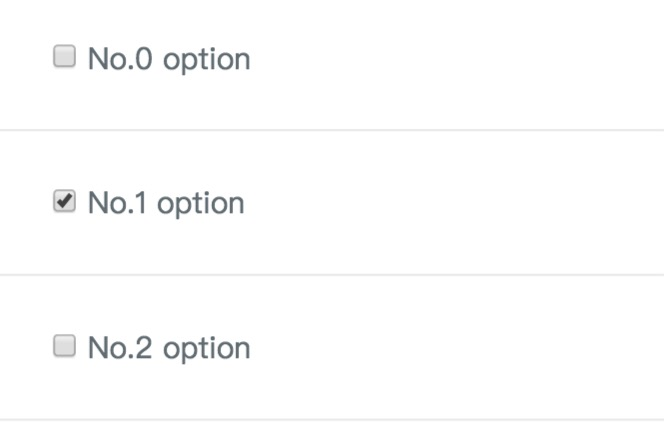
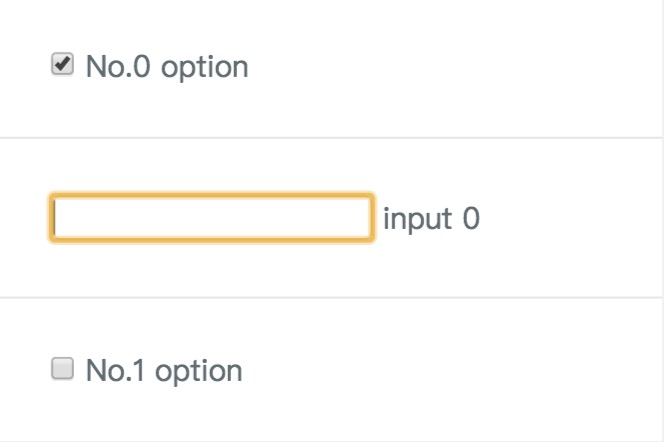
add input

Changed region(s): [[0.0602, 0.4118, 0.7229, 0.5588], [0.0602, 0.7353, 0.3916, 0.8824], [0.0602, 0.0882, 0.3916, 0.1765]]

diff --git a/example/pages/form-list/index.vue b/example/pages/form-list/index.vue
@@ -1,12 +1,18 @@
 <template>
   <page class="form-list-view" :title="$t('examples.formList')" :desc="$t('formListPage.desc')">
     <div slot="content">
-      <scroll ref="scroll" :click="options.click" :tap="options.tap">
+      <scroll ref="scroll" :click="options.click" :tap="options.tap" :listenBeforeScroll="options.listenBeforeScroll" @beforeScrollStart="beforeScrollStart">
         <ul class="content" ref="formList">
-          <li v-for="(item, index) in items" @click="click">
-            <input type="checkbox" :value="index" v-model="checkedItems">
-            <label>{{ $t('formListPage.previousTxt') + index + $t('formListPage.followingTxt') }}</label>
-          </li>
+          <template v-for="(item, index) in items">
+            <li>
+              <input type="checkbox" :value="index" v-model="checkedItems">
+              <label>{{ $t('formListPage.previousTxt') + index + $t('formListPage.followingTxt') }}</label>
+            </li>
+            <li>
+              <input class="text-input" type="text" @focus="focusHandle(index)" @blur="blurHandle(index)">
+              <span>input {{ index }}</span>
+            </li>
+          </template>
         </ul>
       </scroll>
     </div>
@@ -22,9 +28,10 @@
       return {
         options: {
           click: false,
-          tap: true
+          tap: true,
+          listenBeforeScroll: true // 用于input blur
         },
-        items: Array(20),
+        items: Array(10),
         checkedItems: []
       }
     },
@@ -34,7 +41,6 @@
     },
     mounted() {
       let labelList = this.$refs.formList.querySelectorAll('label')
-      console.log(labelList)
       labelList.forEach((item, index) => {
         item.addEventListener('tap', () => {
           console.log('tap item', index)
@@ -44,8 +50,18 @@
       })
     },
     methods: {
-      click() {
-        console.log('click item')
+      // 用于input blur
+      beforeScrollStart() {
+        let inputList = this.$refs.formList.querySelectorAll('.text-input')
+        inputList.forEach((item) => {
+          item.blur()
+        })
+      },
+      focusHandle(index) {
+        console.log(`input ${index}: focus`)
+      },
+      blurHandle(index) {
+        console.log(`input ${index}: blur`)
       }
     }
   }
@@ -57,4 +73,7 @@
       li
         padding: 30px
         border-bottom: 1px solid #e5e5e5
+        .text-input
+          border: 1px solid #e5e5e5
+          border-radius: 3px
 </style>
